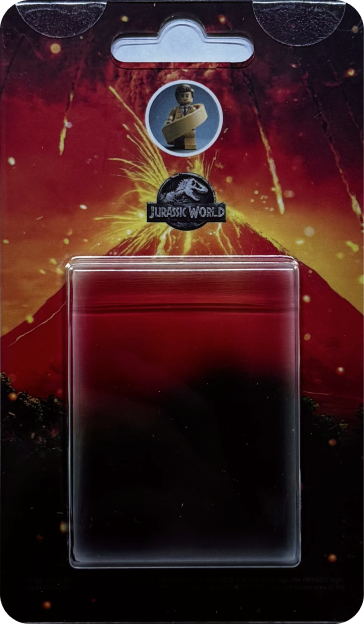
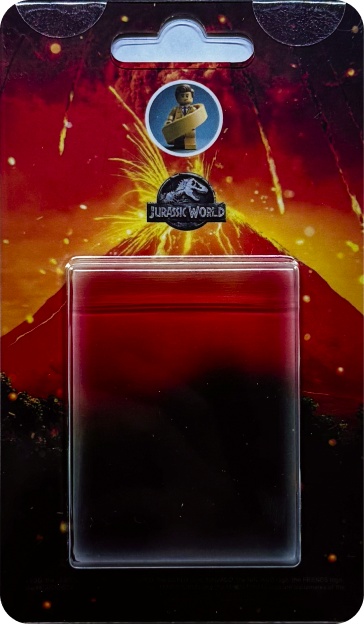
New Blister Design

diff --git a/main.py b/main.py
@@ -2,7 +2,7 @@ import os
 
 while True:
     try:
-        from PIL import Image, ImageFont, ImageDraw
+        from PIL import Image, ImageFont, ImageDraw, ImageEnhance
         import pathlib, yadisk, gspread
         import cv2, time, aiohttp, pathlib
         from rembg import remove
@@ -315,6 +315,10 @@ async def main(start: int, end: int, setup: dict):
                         center_x = (510 + 1080) / 2
                         position_x = center_x - img1_with_opacity.width / 2
                         position_y = 925 - img1_with_opacity.height
+                        bright_enhance = ImageEnhance.Brightness(img1_with_opacity)
+                        img1_with_opacity = bright_enhance.enhance(0.75)
+                        contrast_enhance = ImageEnhance.Contrast(img1_with_opacity)
+                        img1_with_opacity = contrast_enhance.enhance(1.5)
 
                         res_img.paste(img1_with_opacity, (int(position_x), int(position_y)), mask=img1_with_opacity)
                 except Exception as e:
@@ -409,4 +413,4 @@ async def main(start: int, end: int, setup: dict):
 if __name__ == '__main__':
     from Setup.setup import setup
     import asyncio
-    asyncio.run(main(218, 218, setup))
+    asyncio.run(main(216, 216, setup))
